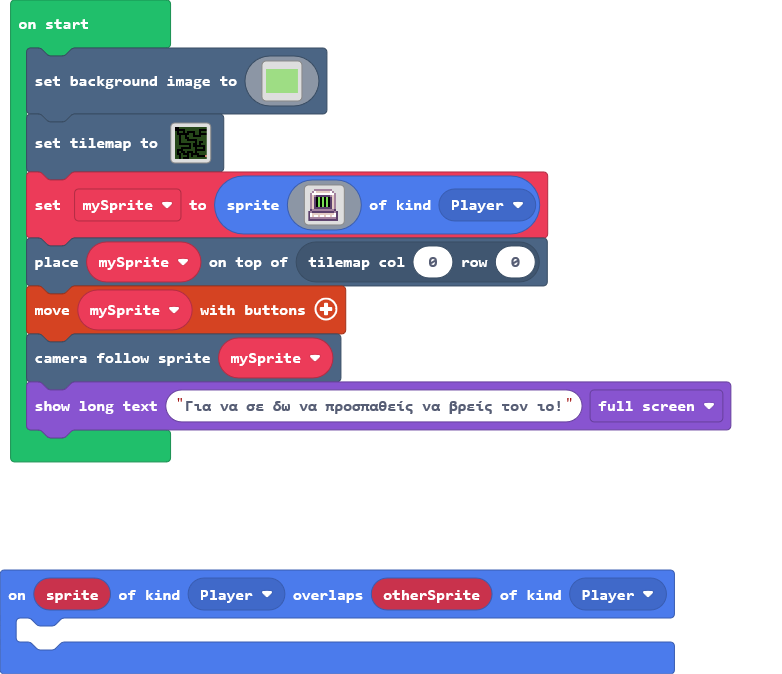
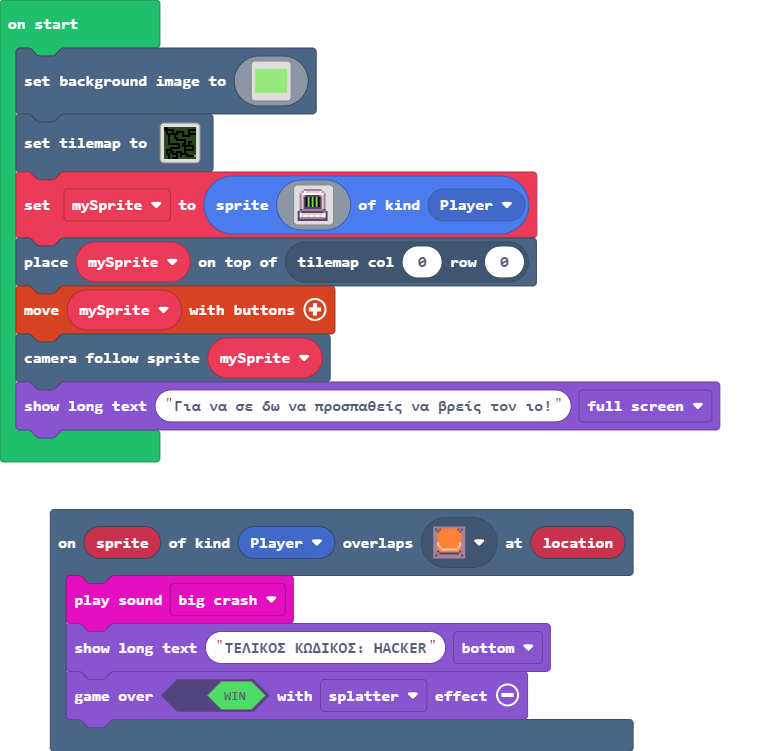
Update main.blocks, main.ts

diff --git a/main.ts b/main.ts
@@ -1,5 +1,7 @@
-sprites.onOverlap(SpriteKind.Player, SpriteKind.Player, function (sprite, otherSprite) {
-	
+scene.onOverlapTile(SpriteKind.Player, sprites.dungeon.buttonOrange, function (sprite, location) {
+    music.bigCrash.play()
+    game.showLongText("ΤΕΛΙΚΟΣ ΚΩΔΙΚΟΣ: HACKER", DialogLayout.Bottom)
+    game.over(true, effects.splatter)
 })
 scene.setBackgroundImage(img`
     7777777777777777777777777777777777777777777777777777777777777777777777777777777777777777777777777777777777777777777777777777777777777777777777777777777777777777
